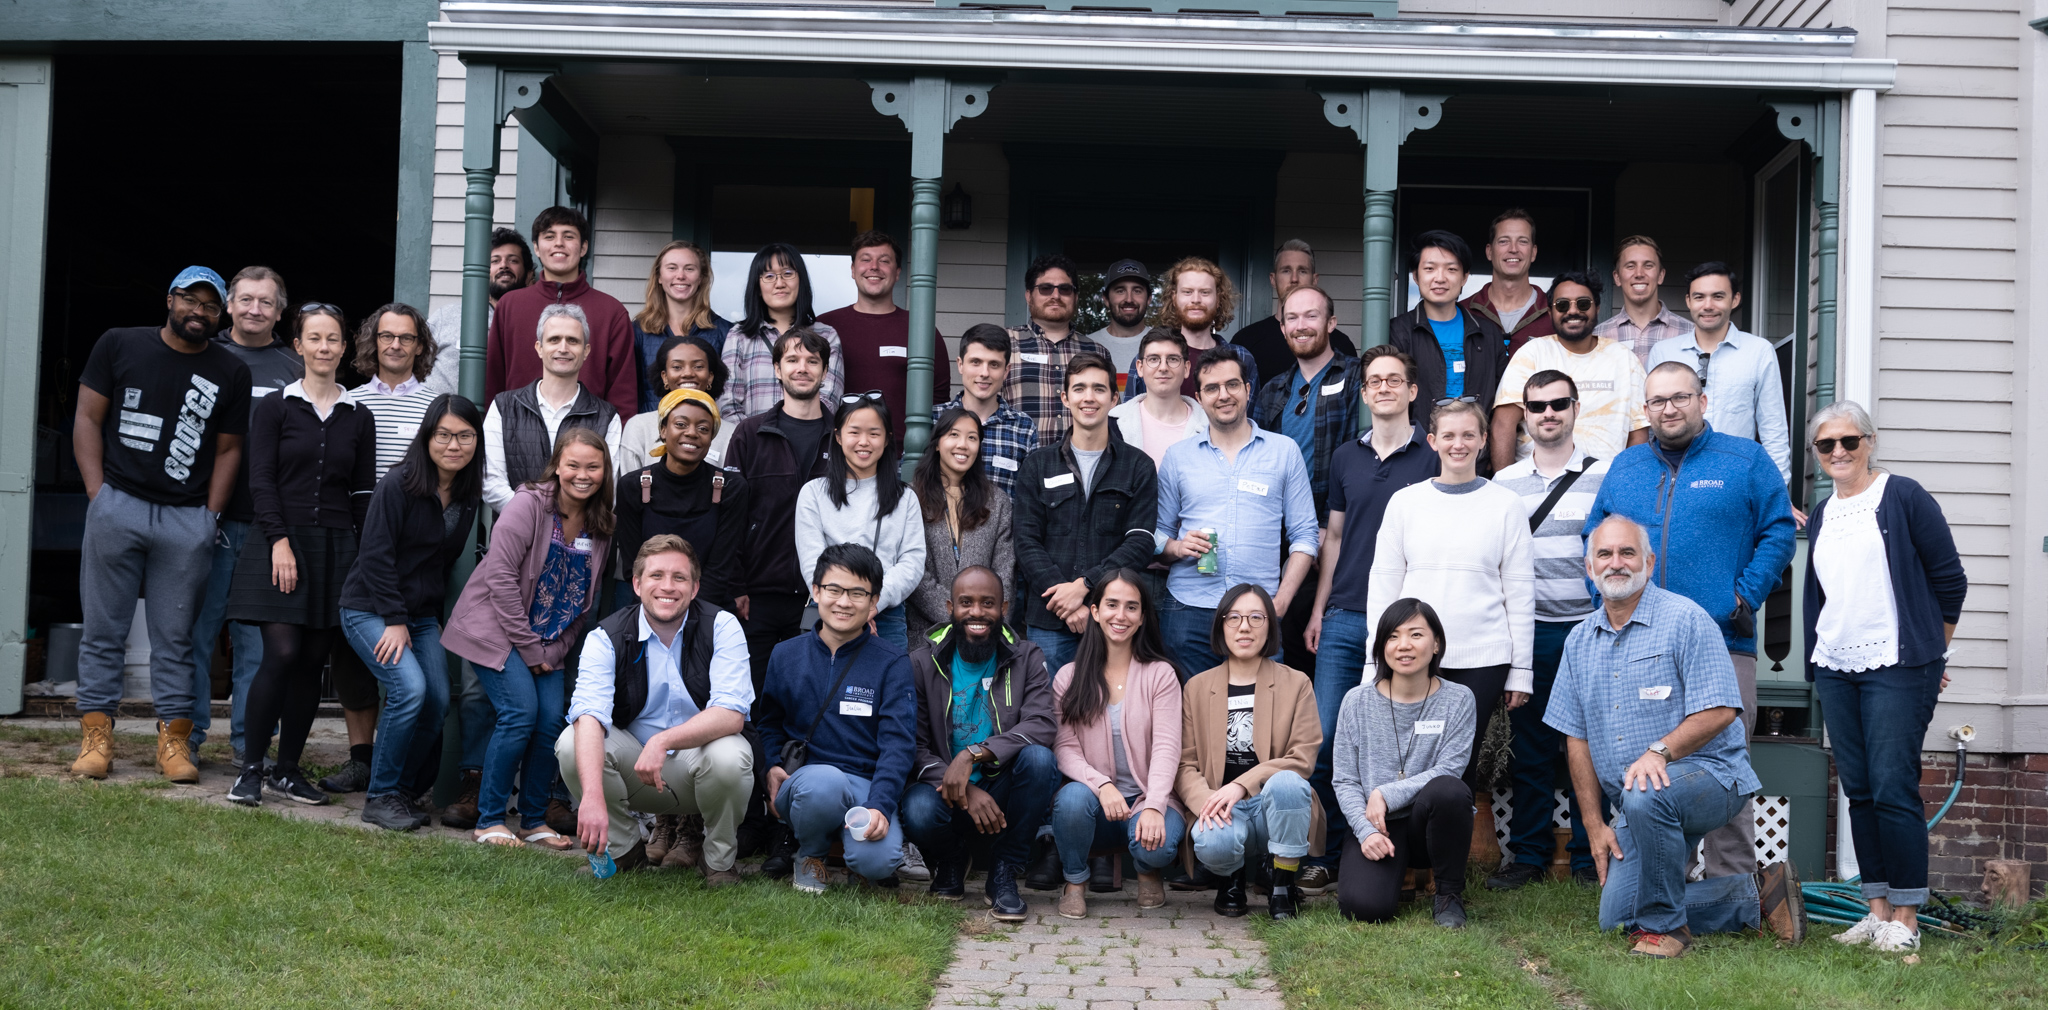
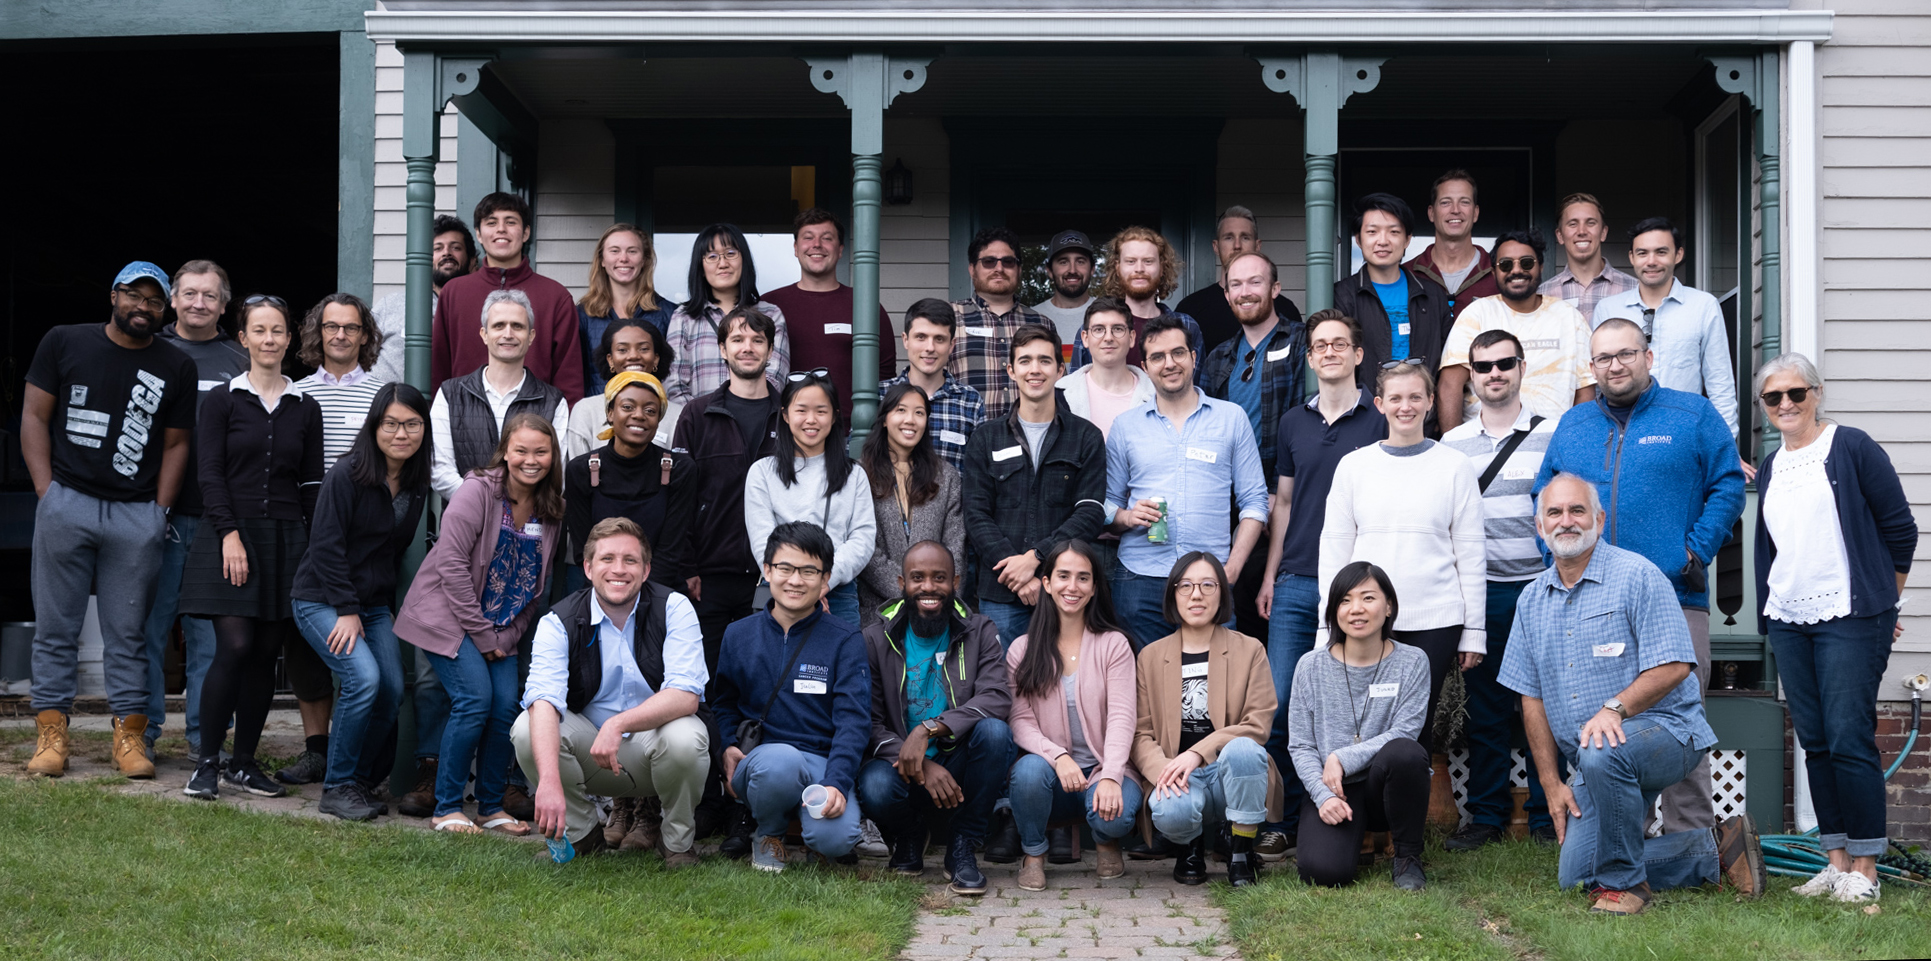
Danysh staging (#43)
* Brian's bio text and picture, and cropping of group pictures

* danysh-staging changes to bio

diff --git a/team/_posts/1970-01-01-danysh-brian.md b/team/_posts/1970-01-01-danysh-brian.md
@@ -3,11 +3,22 @@ layout: member
 title: Brian Danysh
 citation_names: "Danysh BP"
 category: Operations and Administration
-position: Clinical Scientific Operations Lead
+position: Scientific Operations Manager
 email: bdanysh@broadinstitute.org
 github: 
-image: /assets/images/team/Brian_Danysh.jpeg
+image: /assets/images/team/Brian_Danysh.jpg
 cv:
+scholar: tG4ADFkAAAAJ
+linkedin: brian-danysh
+<<<<<<< Updated upstream
 alum: false
 ---
 
+=======
+
+alum: false
+---
+
+
+>>>>>>> Stashed changes
+I am the Scientific Operations Manager for the Cancer Resistance Project within Gad Getz’s Cancer Genome Computational Analysis Group. I received my PhD in Molecular Biology from the University of Delaware (Newark, DE) and held postdoctoral fellowships at Rice University (Houston, TX) and MD Anderson Cancer Center (Houston, TX). My areas of scientific research and experience/expertise over my scientific career include ocular lens and extracellular matrix biology, cancer biology, targeted nanoparticle delivery and cellular ablation, and genetic and epigenetic mechanisms of acquired drug resistance. Prior to the Broad, I was an Instructor at The University of Texas MD Anderson Cancer Center (Department of Endocrine Neoplasia and Hormonal Disorders), where I collaborated extensively with clinicians and other scientists in conducting translational cancer research on advanced papillary thyroid cancer. Prior to returning to school for my PhD, I was a system engineer where I built and maintained UNIX servers and fiber optic storage area networks. Throughout my career stages I’ve been interested in finding novel ways to improve and simplify methods and processes, which has helped me in my current role where I lead operations for projects aimed at understanding how cancers become resistant to therapies in a wide breadth of cancer and treatment types. Much of what I do involves developing and maintaining collaborator relationships, developing project scopes and goals, and facilitating data analysis and publication phases of each project.
